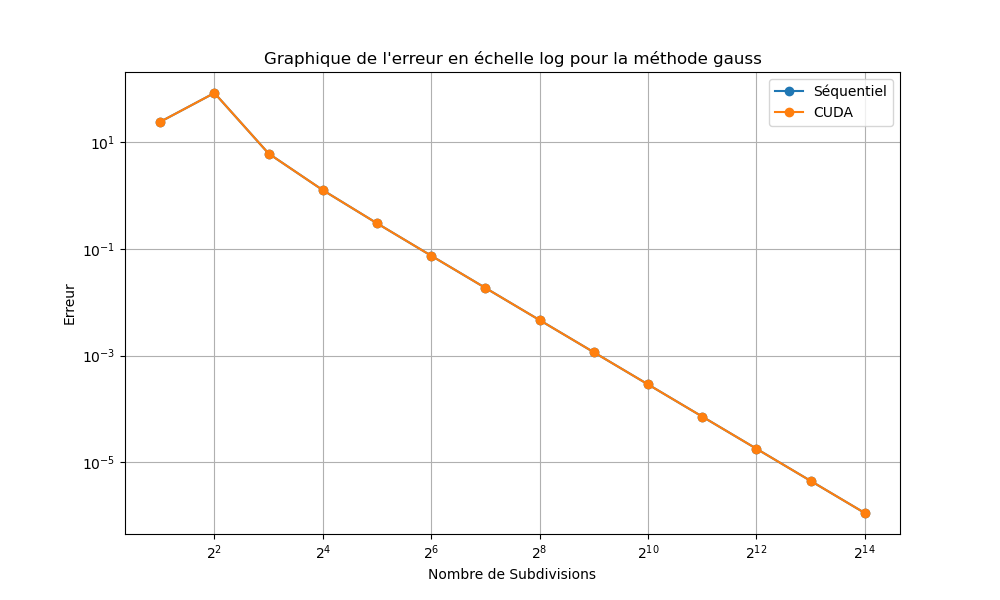
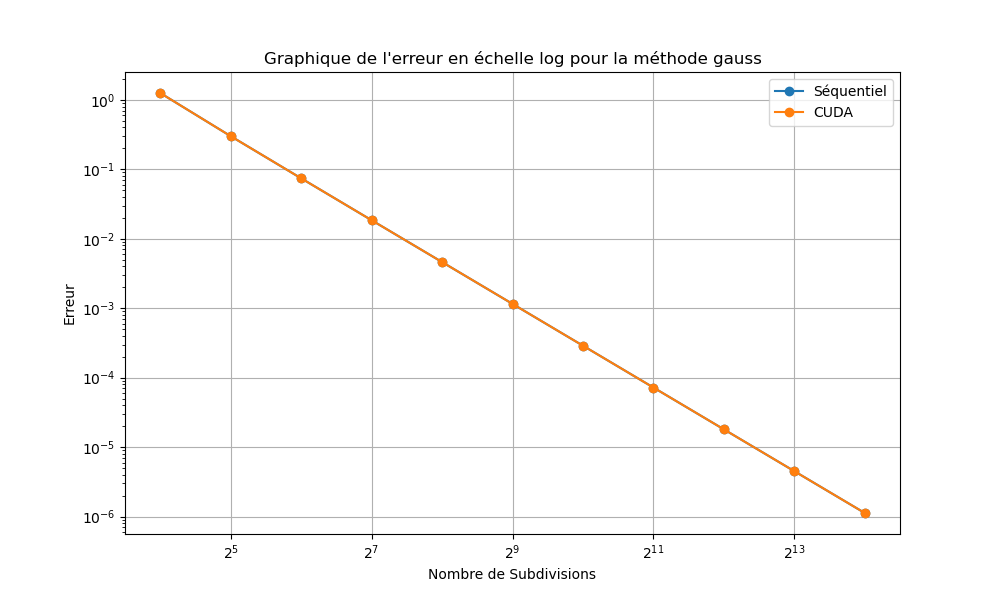
modif pour comparaison mpi vs openmp vs cuda

diff --git a/Sequentiel/simpson.cpp b/Sequentiel/simpson.cpp
@@ -61,7 +61,7 @@ int main(int argc, char* argv[]) {
     ofstream output_file("../Results/output_simp_seq.txt");
 
     if (output_file.is_open()) {
-        for (int exp = 1; exp <= maxExponent; ++exp) {
+        for (int exp = 4; exp <= maxExponent; ++exp) {
             long int n = pow(2, exp);
             performComputation(a, b, n, output_file);
         }

diff --git a/Sequentiel/monte_carlo.cpp b/Sequentiel/monte_carlo.cpp
@@ -59,7 +59,7 @@ int main(int argc, char* argv[]) {
     double y_min = 0.0, y_max = 1.0;
 
     int maxExponent = 25;
-    for (int exp = 1; exp <= maxExponent; ++exp) {
+    for (int exp = 4; exp <= maxExponent; ++exp) {
         long int n = pow(2, exp);
         performComputation(x_min, x_max, y_min, y_max, n, outputFile);
     }

diff --git a/Sequentiel/Gauss2D.cpp b/Sequentiel/Gauss2D.cpp
@@ -72,7 +72,7 @@ int main(int argc, char* argv[]) {
 
     int maxExponent = 14;
 
-    for (int exp = 1; exp <= maxExponent; ++exp) {
+    for (int exp = 4; exp <= maxExponent; ++exp) {
         int numPoints = pow(2, exp);
         performComputation(numPoints, outputFile);
     }
